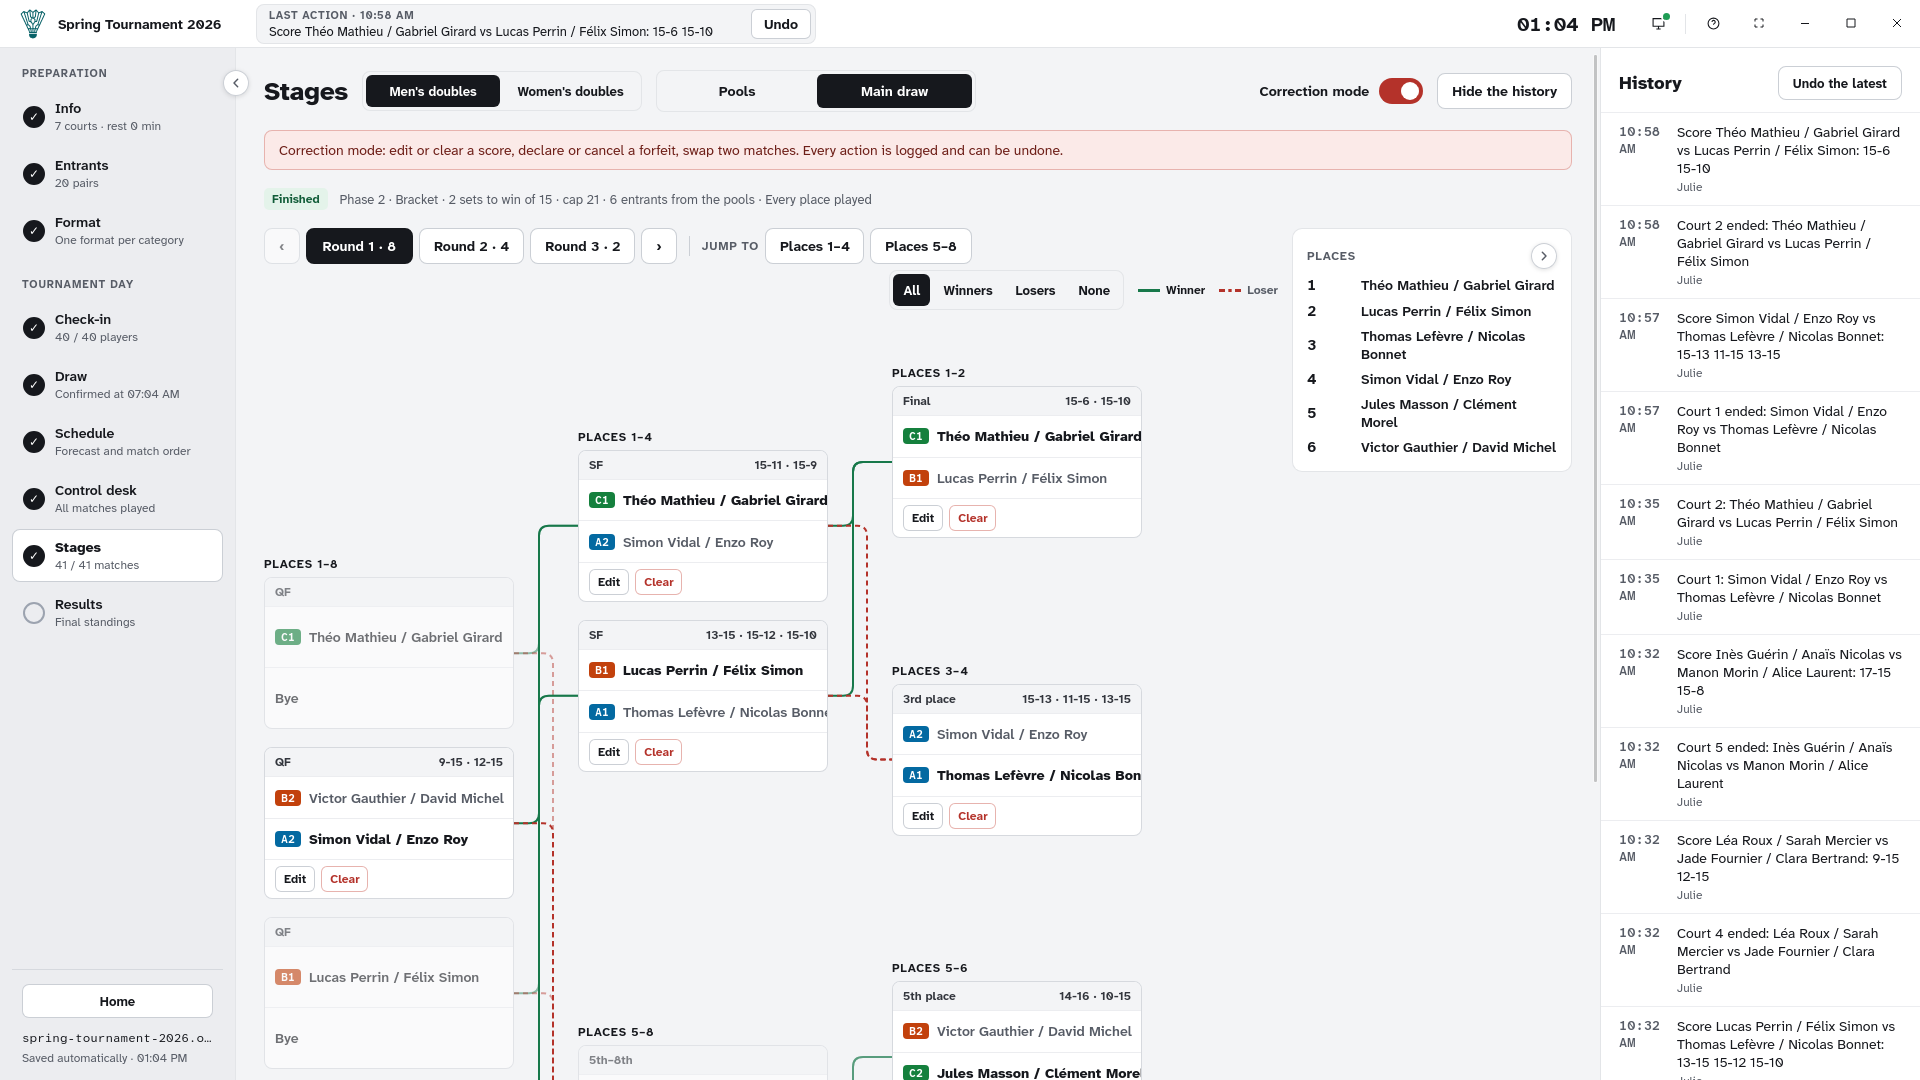
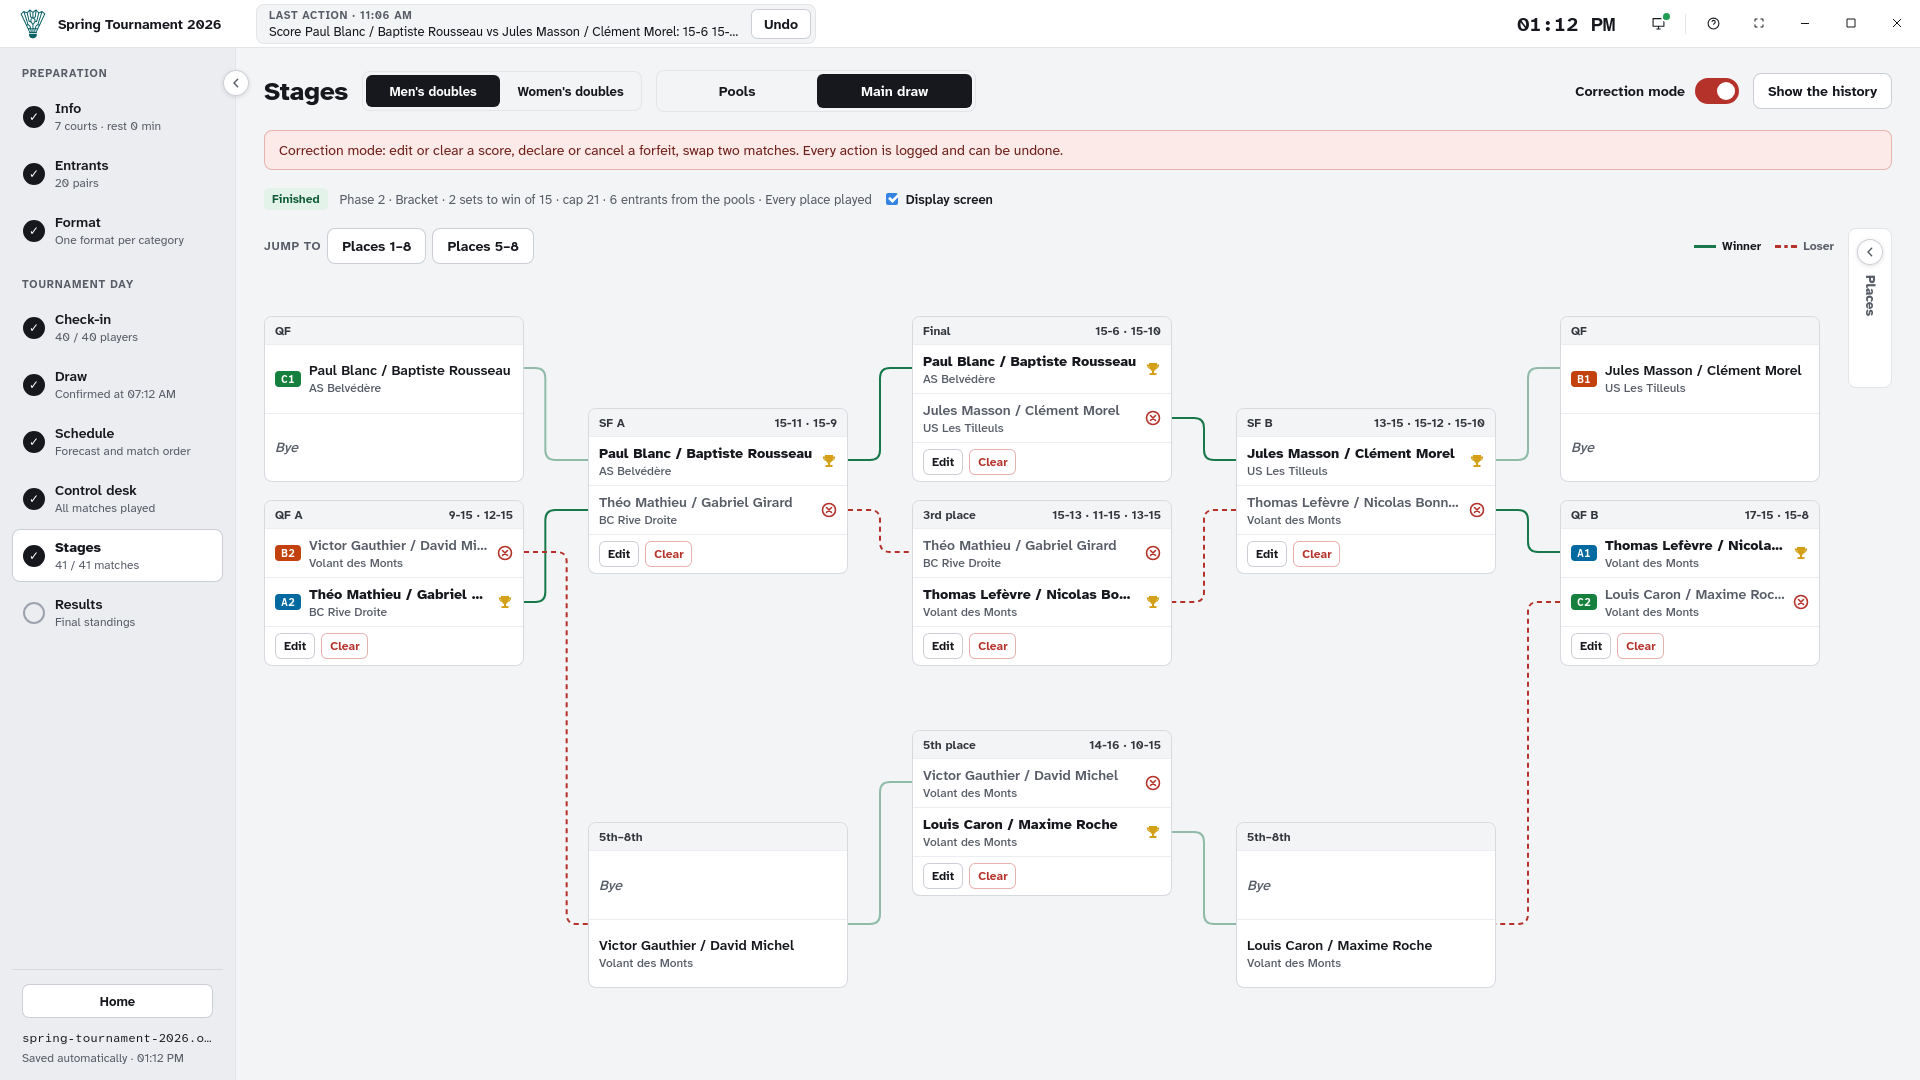
feat: retake the guide captures for desktop 1.6.0
The control desk, the display screen (pools, and a new capture of the
folded main draw) and the Stages screen (pools, bracket, correction mode),
in French and English.

diff --git a/src/content/guide/fr/09-phases-et-corrections.md b/src/content/guide/fr/09-phases-et-corrections.md
@@ -4,14 +4,14 @@ title: Suivre les phases et corriger
 summary: Classements de poules, tableaux, phases suivantes et mode correction avec historique.
 images:
   - src: ../../../assets/guide/09-stages-fr.png
-    alt: "L’écran Phases : le classement de la poule A avec ses matchs et l’historique des actions à droite"
+    alt: "L’écran Phases : les poules du double hommes avec leur classement, les clubs et les matchs, la case Écran d’appel et l’historique des actions à droite"
     caption: "Le classement d’une poule et l’historique"
   - src: ../../../assets/guide/09-bracket-fr.png
-    alt: "L’écran Phases sur le tableau principal : l’arbre par tours avec ses blocs (places 1 à 2, 3 à 4, 5 à 8…), l’origine de chaque équipe (C1, B2…), les boutons de navigation et le classement des places"
+    alt: "L’écran Phases sur le tableau principal plié en deux : les quarts à gauche et à droite, la finale et la 3e place au centre, les 5e–8e dessous, l’origine des équipes au premier tour (C1, B2…)"
     caption: "Le tableau principal et ses places"
   - src: ../../../assets/guide/09-correction-fr.png
-    alt: "Le mode correction sur le tableau principal : les boutons Modifier et Effacer sur un match, avec l’historique"
-    caption: "Le mode correction et l’historique"
+    alt: "Le mode correction sur le tableau principal : les boutons Modifier et Effacer sur chaque match joué"
+    caption: "Le mode correction"
 ---
 
 L'écran **Phases** montre, catégorie par catégorie, le classement de chaque poule et l'arbre de chaque tableau.

diff --git a/src/content/guide/en/09-stages-and-corrections.md b/src/content/guide/en/09-stages-and-corrections.md
@@ -4,14 +4,14 @@ title: Follow the stages and make corrections
 summary: Pool standings, brackets, later stages and correction mode with history.
 images:
   - src: ../../../assets/guide/09-stages-en.png
-    alt: "The Stages screen: pool A standings with its matches, and the history of actions on the right"
+    alt: "The Stages screen: the men’s doubles pools with their standings, clubs and matches, the Display screen box and the history of actions on the right"
     caption: "A pool’s standings and the history"
   - src: ../../../assets/guide/09-bracket-en.png
-    alt: "The Stages screen on the main bracket: the tree by rounds with its blocks (places 1 to 2, 3 to 4, 5 to 8…), where each team comes from (C1, B2…), the navigation buttons and the places"
+    alt: "The Stages screen on the main draw folded in two: quarter-finals left and right, the final and the 3rd place in the middle, places 5 to 8 below, where each team comes from in the first round (C1, B2…)"
     caption: "The main bracket and its places"
   - src: ../../../assets/guide/09-correction-en.png
-    alt: "Correction mode on the main bracket: Edit and Clear buttons on a match, with the history"
-    caption: "Correction mode and the history"
+    alt: "Correction mode on the main draw: Edit and Clear buttons on each match played"
+    caption: "Correction mode"
 ---
 
 The **Stages** screen shows, category by category, the standings of each pool and the tree of each bracket.

diff --git a/src/content/guide/fr/08-ecran-d-appel.md b/src/content/guide/fr/08-ecran-d-appel.md
@@ -4,8 +4,11 @@ title: Afficher l'écran d'appel sur un deuxième écran
 summary: Un vidéoprojecteur ou une télé, lisible à dix mètres, sans rien toucher.
 images:
   - src: ../../../assets/guide/08-display-fr.png
-    alt: "L’écran d’appel : le match appelé en très grand sur le terrain 7, la grille des terrains, les appels précédents et le classement d’une poule"
-    caption: "L’écran d’appel, tel que la salle le voit"
+    alt: "L’écran d’appel sur une phase de poules : les trois poules du double hommes avec leur classement (matchs joués, victoires, différences de sets et de points), les clubs et les matchs en cours"
+    caption: "Une phase de poules sur l’écran d’appel"
+  - src: ../../../assets/guide/08-display-bracket-fr.png
+    alt: "L’écran d’appel sur le tableau principal plié en deux autour de la finale : le vainqueur en haut de chaque match avec un trophée, les places gagnées (1er, 2e, 3e…) et les 5e–8e sous les demi-finales"
+    caption: "Le tableau principal sur l’écran d’appel"
 ---
 
 Branchez un vidéoprojecteur ou une télé en HDMI sur l'ordinateur de la table de marque. Dans la barre du haut, le bouton de l'écran d'appel ouvre une deuxième fenêtre et permet de choisir le moniteur ; passez-la en plein écran depuis son propre bouton ou d'un double-clic.

diff --git a/src/content/guide/en/08-display-screen.md b/src/content/guide/en/08-display-screen.md
@@ -4,8 +4,11 @@ title: Show the display screen on a second screen
 summary: A projector or a TV, readable from ten metres, hands off.
 images:
   - src: ../../../assets/guide/08-display-en.png
-    alt: "The display screen: the called match in very large type on court 7, the grid of courts, the previous calls and a pool’s standings"
-    caption: "The display screen, as the hall sees it"
+    alt: "The display screen on a pools stage: the three men’s doubles pools with their standings (played, wins, set and point differences), the clubs and the matches on court"
+    caption: "A pools stage on the display screen"
+  - src: ../../../assets/guide/08-display-bracket-en.png
+    alt: "The display screen on the main draw folded in two around the final: each match’s winner on top with a trophy, the places won (1st, 2nd, 3rd…) and places 5 to 8 under the semi-finals"
+    caption: "The main draw on the display screen"
 ---
 
 Plug a projector or a TV into the control desk computer over HDMI. In the top bar, the display screen button opens a second window and lets you choose the monitor; make it full screen with its own button or a double-click.
